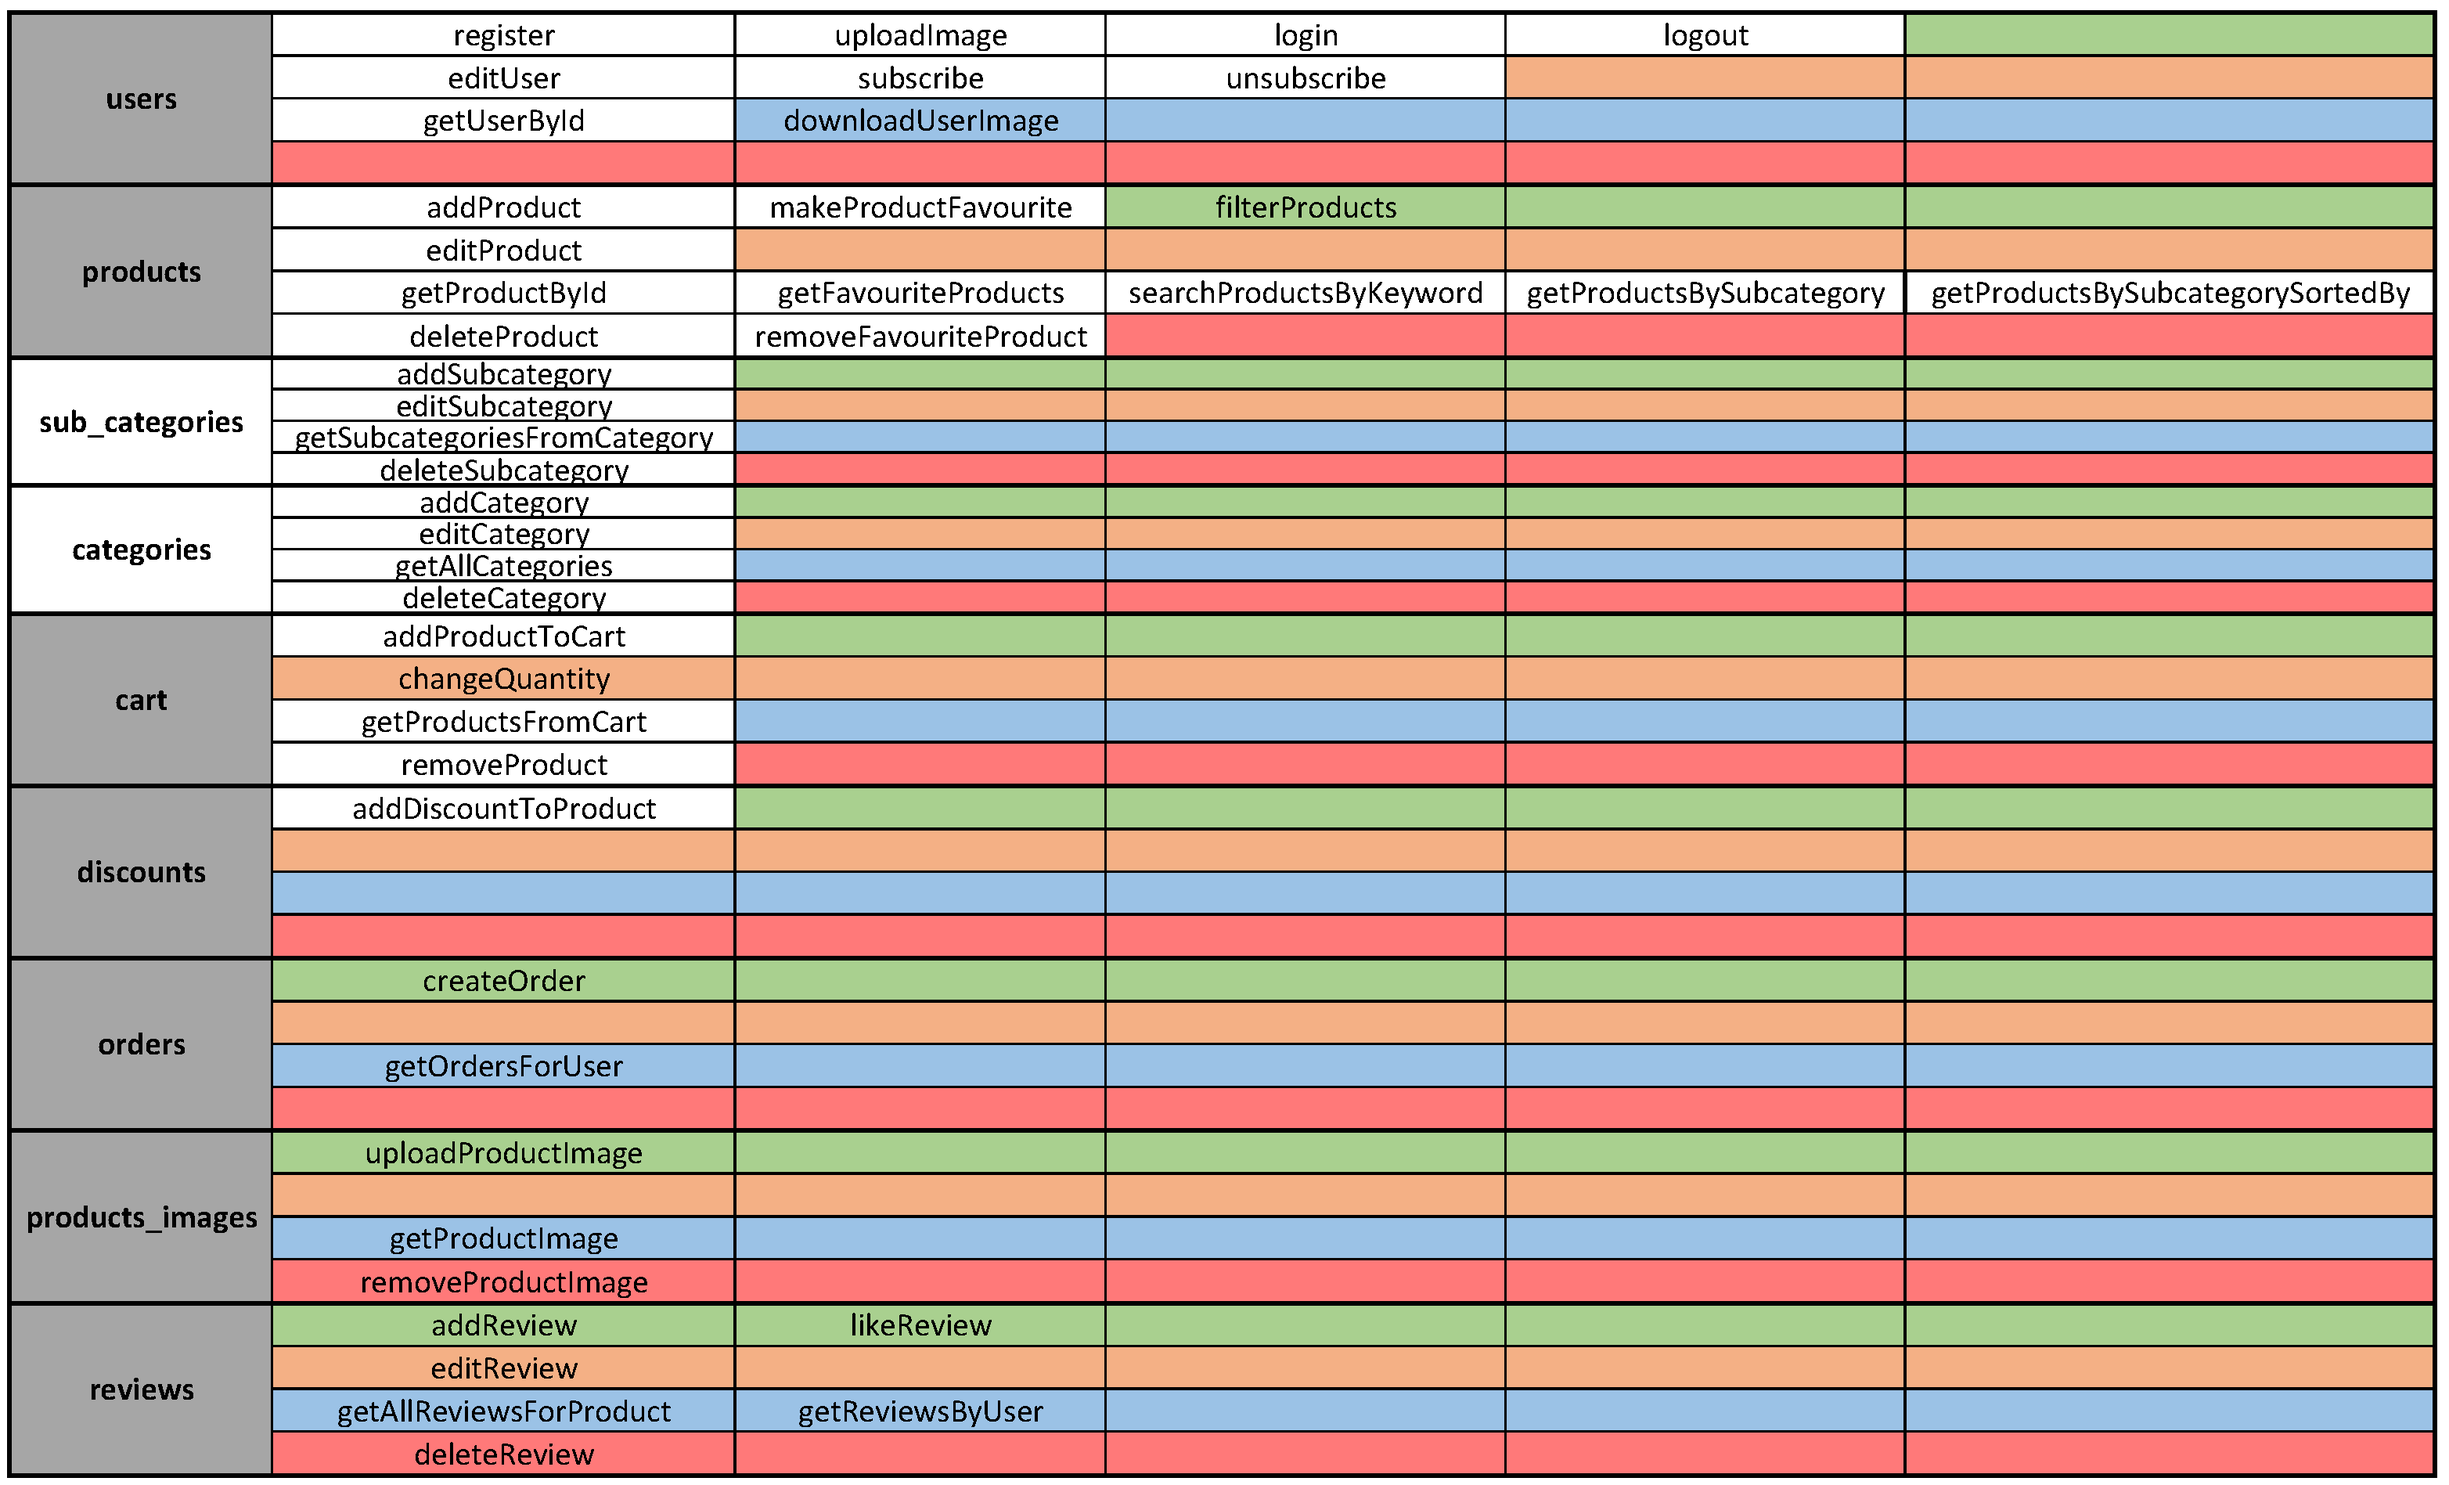
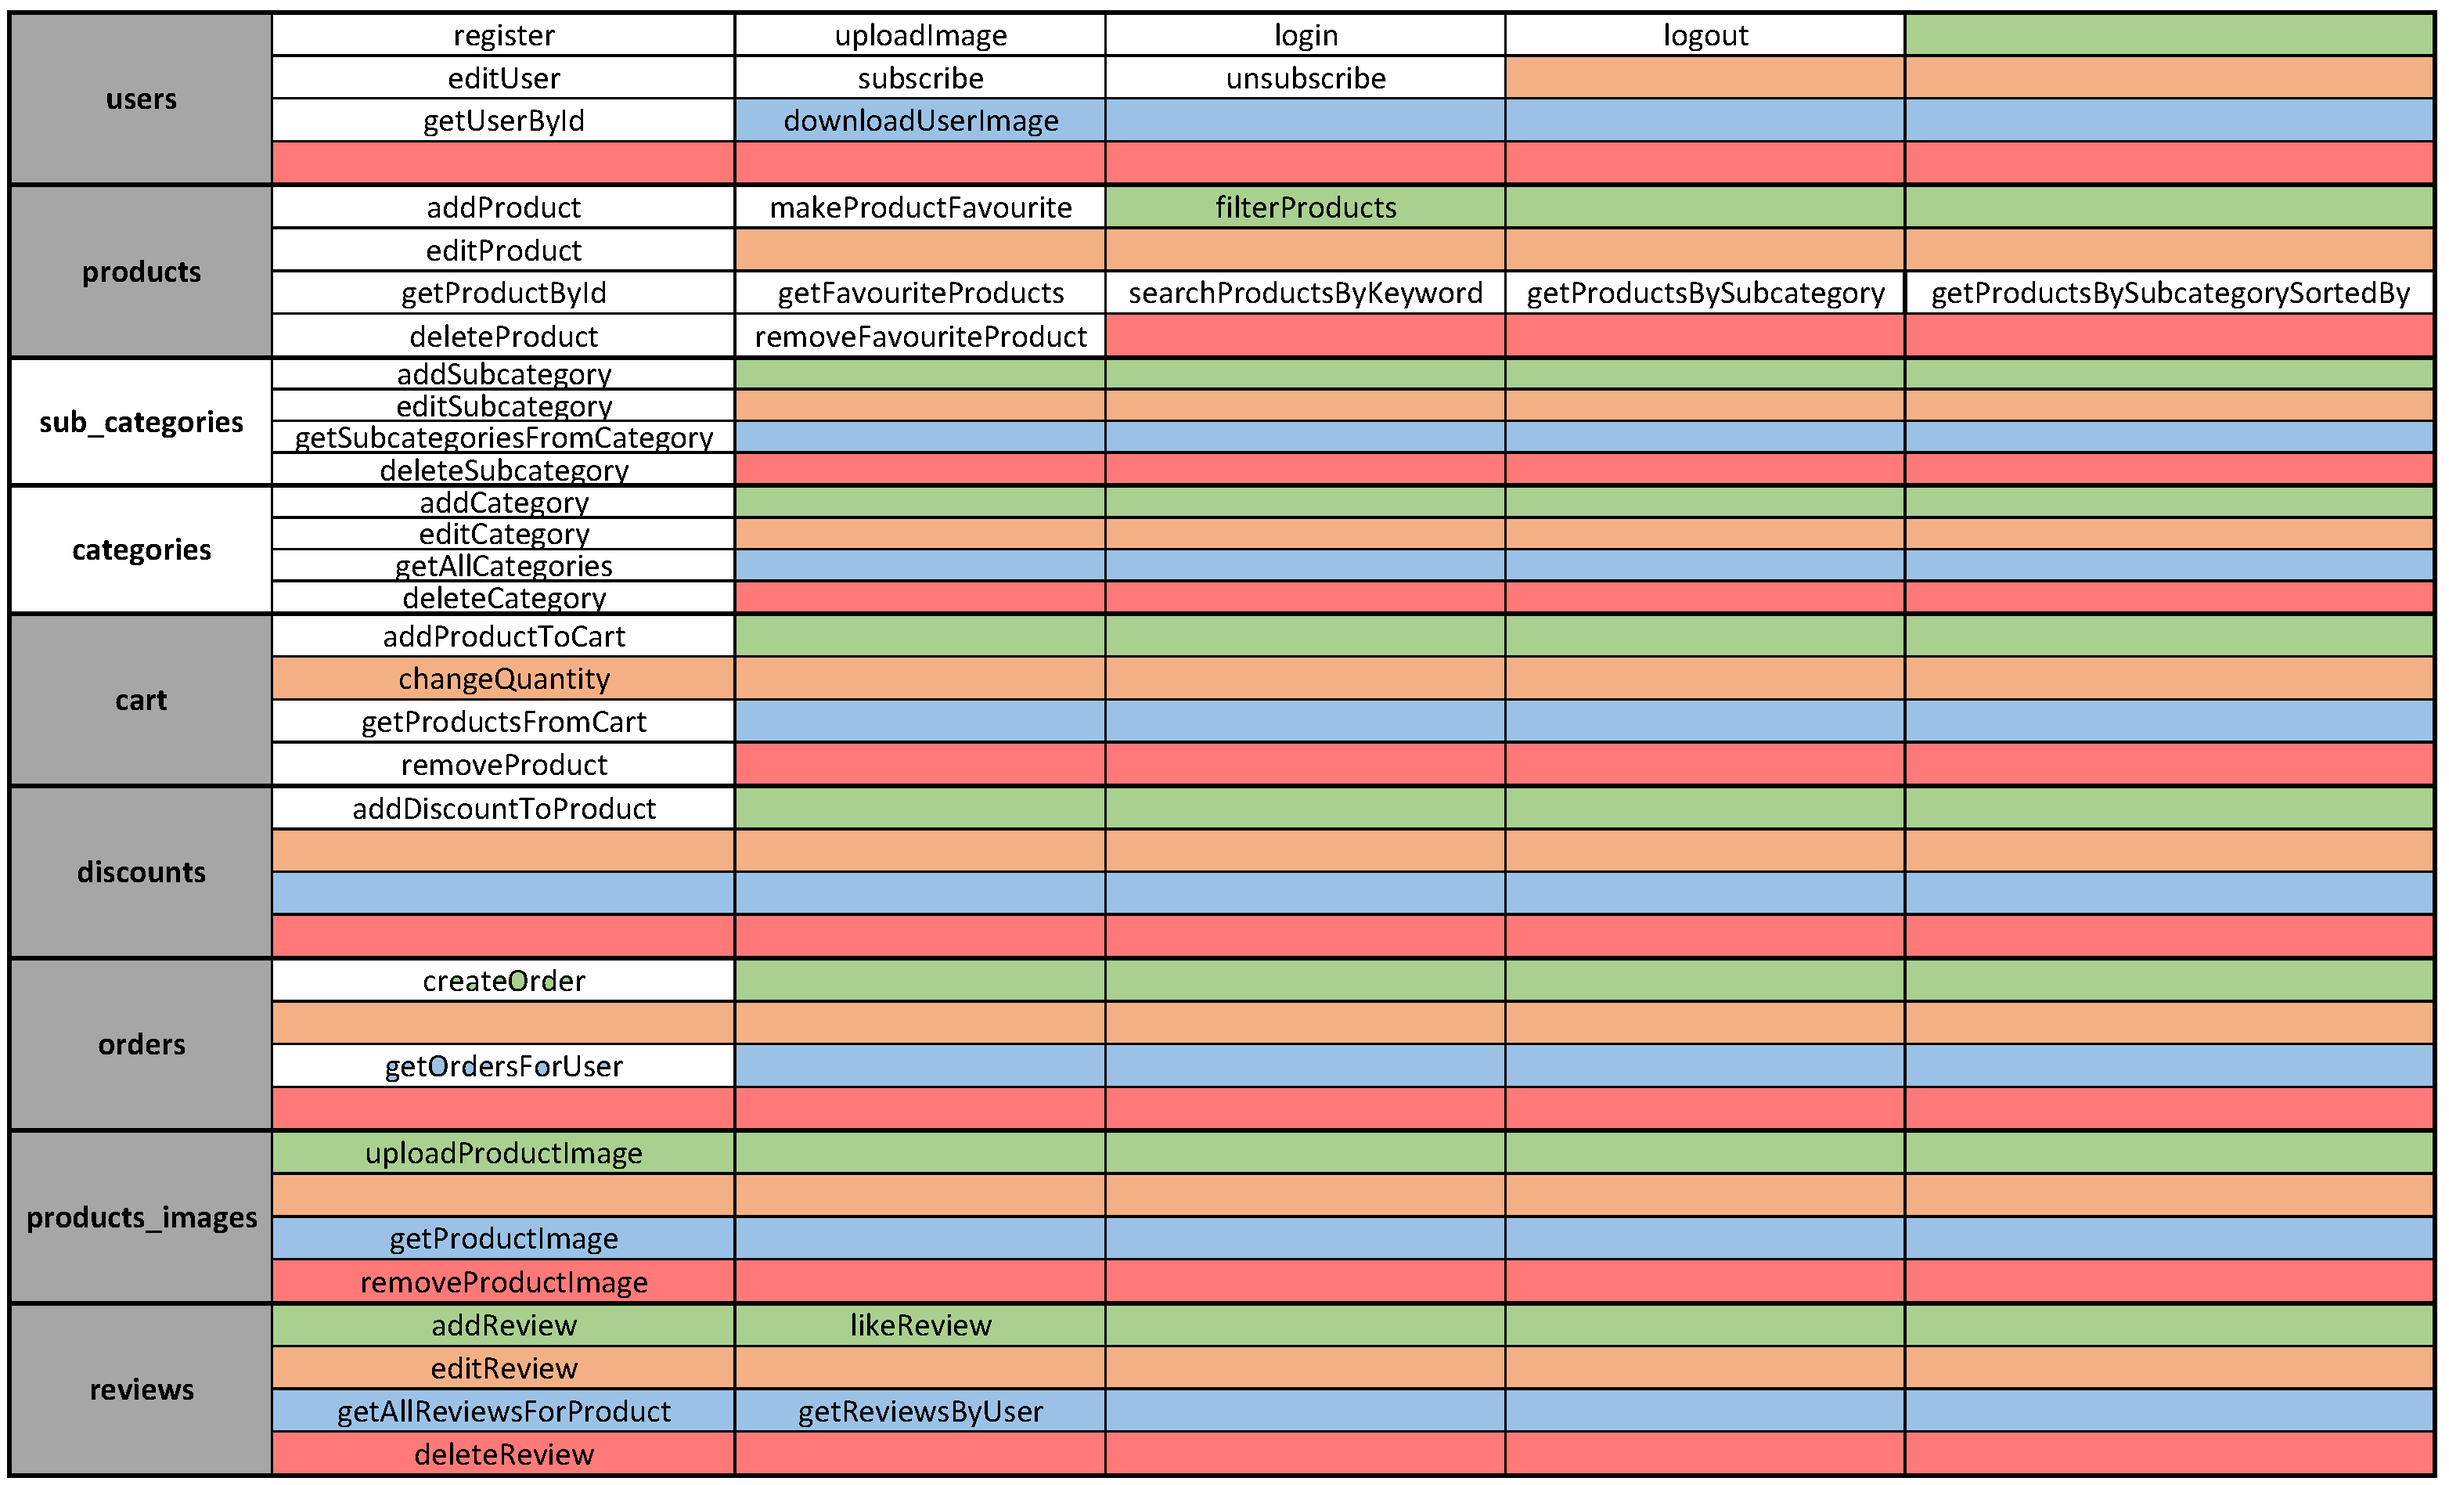
Orders

Changed region(s): [[0.093, 0.622, 0.31, 0.7464]]

diff --git a/src/main/java/com/emag/service/OrderService.java b/src/main/java/com/emag/service/OrderService.java
@@ -1,22 +1,64 @@
 package com.emag.service;
 
+import com.emag.exception.BadRequestException;
 import com.emag.exception.NotFoundException;
-import com.emag.model.pojo.Order;
-import com.emag.model.pojo.User;
-import com.emag.model.pojo.UserCart;
+import com.emag.model.dto.OrderDTO;
+import com.emag.model.pojo.*;
+import org.aspectj.weaver.ast.Or;
 import org.springframework.stereotype.Service;
 
-import java.util.List;
+import java.sql.Time;
+import java.sql.Timestamp;
+import java.time.LocalDateTime;
+import java.util.*;
 
 @Service
 public class OrderService extends AbstractService{
 
-    public Order createOrder(User user) {
-        List<UserCart> cart = cartRepository.findAllByUser(user)
-                .orElseThrow(() -> new NotFoundException("Carts empty!"));
+    public OrderDTO createOrder(User user) {
+        List<UserCart> cart = cartRepository.findAllByUser(user).orElse(null);
+        if (cart.isEmpty() || cart == null){
+            throw new BadRequestException("Carts empty!");
+        }
 
-// TODO finish method
-        return null;
+        Order order = new Order();
+        order.setBuyer(user);
+        order.setCreatedAt(Timestamp.valueOf(LocalDateTime.now()));
+        orderRepository.save(order);
 
+        OrderedProduct.OrderedProductsKey primaryKey = new OrderedProduct.OrderedProductsKey();
+        primaryKey.setOrderId(order.getId());
+
+
+        HashMap<Product , Integer> productsQuantities = new HashMap<>();
+        cart.forEach(userCart -> {
+            Product product = userCart.getProduct();
+            if (product.getDeletedAt() != null){
+                throw new BadRequestException("Product deleted !");
+            }
+            primaryKey.setProductId(product.getId());
+            int availableProductQuantity = product.getQuantity();
+            int orderedQuantity = userCart.getQuantity();
+            if (availableProductQuantity < orderedQuantity){
+                orderRepository.deleteById(order.getId());
+                throw new BadRequestException("Limited product quantity!");
+            }
+            productsQuantities.put(product , orderedQuantity );
+            product.setQuantity(product.getQuantity() - orderedQuantity);
+
+
+            orderedProductRepository.save(new OrderedProduct(primaryKey , order , product , orderedQuantity));
+            if (product.getQuantity() <= 0){
+                product.setDeletedAt(Timestamp.valueOf(LocalDateTime.now()));
+                productRepository.deleteById(product.getId());
+            }
+            cartRepository.delete(userCart);
+        });
+        double totalSum = productsQuantities.keySet().stream().map(Product::getPrice).reduce(Double::sum).orElse(0.0);
+        return new OrderDTO(new ArrayList<>(productsQuantities.entrySet()) , totalSum);
+    }
+
+    public List<Order> getAllOrders(User user) {
+        return orderRepository.findAllByBuyer(user).orElseThrow(() -> new BadRequestException("User has no orders!"));
     }
 }

diff --git a/src/main/java/com/emag/service/CartService.java b/src/main/java/com/emag/service/CartService.java
@@ -1,5 +1,6 @@
 package com.emag.service;
 
+import com.emag.exception.BadRequestException;
 import com.emag.exception.NotFoundException;
 import com.emag.model.dto.product.ResponseProductDTO;
 import com.emag.model.pojo.Product;
@@ -17,13 +18,23 @@ public class CartService extends AbstractService{
     public UserCart addProductToCart(long id, User user) {
         Product product = productRepository.findById(id)
                 .orElseThrow(() -> new NotFoundException("Product not found !"));
+        if (product.getDeletedAt() != null){
+            throw new BadRequestException("Product deleted");
+        }
+        int productAvailableQuantity = product.getQuantity();
         UserCart.UserCartKey primaryKey = new UserCart.UserCartKey();
         primaryKey.setProductId(id);
         primaryKey.setUserId(user.getId());
         UserCart userCart = cartRepository.findByPrimaryKey(primaryKey).orElse(null);
         if (userCart != null){
-            userCart.setQuantity(userCart.getQuantity() + 1);
-            return cartRepository.save(userCart);
+            int orderedQuantity = userCart.getQuantity();
+            if (productAvailableQuantity <= orderedQuantity){
+                throw new BadRequestException("Product not available!");
+            }
+            else {
+                userCart.setQuantity(userCart.getQuantity() + 1);
+                return cartRepository.save(userCart);
+            }
         }
         return cartRepository.save(new UserCart(primaryKey , user , product , 1));
 

diff --git a/src/main/java/com/emag/controller/OrderController.java b/src/main/java/com/emag/controller/OrderController.java
@@ -1,13 +1,18 @@
 package com.emag.controller;
 
+import com.emag.model.dto.OrderDTO;
 import com.emag.model.pojo.Order;
+import com.emag.model.pojo.Product;
 import com.emag.service.OrderService;
 import org.springframework.beans.factory.annotation.Autowired;
+import org.springframework.web.bind.annotation.GetMapping;
 import org.springframework.web.bind.annotation.PostMapping;
 import org.springframework.web.bind.annotation.RestController;
 
 import javax.persistence.Access;
 import javax.servlet.http.HttpServletRequest;
+import java.util.List;
+import java.util.Map;
 
 @RestController
 public class OrderController {
@@ -19,7 +24,13 @@ public class OrderController {
     OrderService orderService;
 
     @PostMapping("/orders")
-    Order createOrder (HttpServletRequest request) {
+    OrderDTO createOrder (HttpServletRequest request) {
         return orderService.createOrder(sessionManager.getLoggedUser(request));
     }
+
+    @GetMapping("/orders")
+    List<Order> getAllOrders (HttpServletRequest request){
+        return orderService.getAllOrders(sessionManager.getLoggedUser(request));
+    }
+
 }

diff --git a/src/main/java/com/emag/model/pojo/OrderedProduct.java b/src/main/java/com/emag/model/pojo/OrderedProduct.java
@@ -1,10 +1,7 @@
 package com.emag.model.pojo;
 
 import com.fasterxml.jackson.annotation.JsonManagedReference;
-import lombok.Data;
-import lombok.Getter;
-import lombok.NoArgsConstructor;
-import lombok.Setter;
+import lombok.*;
 
 import javax.persistence.*;
 import java.io.Serializable;
@@ -13,6 +10,7 @@ import java.io.Serializable;
 @Getter
 @Setter
 @NoArgsConstructor
+@AllArgsConstructor
 @Table(name = "orders_have_products")
 public class OrderedProduct {
 

diff --git a/src/main/java/com/emag/model/repository/OrderedProductRepository.java b/src/main/java/com/emag/model/repository/OrderedProductRepository.java
@@ -1,0 +1,12 @@
+package com.emag.model.repository;
+
+import com.emag.model.pojo.Order;
+import com.emag.model.pojo.OrderedProduct;
+import org.springframework.data.jpa.repository.JpaRepository;
+
+import java.util.List;
+import java.util.Optional;
+
+public interface OrderedProductRepository extends JpaRepository<OrderedProduct , OrderedProduct.OrderedProductsKey> {
+    Optional<List<OrderedProduct>> findAllByOrder (Order order);
+}

diff --git a/src/main/java/com/emag/model/repository/OrderRepository.java b/src/main/java/com/emag/model/repository/OrderRepository.java
@@ -1,9 +1,14 @@
 package com.emag.model.repository;
 
 import com.emag.model.pojo.Order;
+import com.emag.model.pojo.User;
 import org.springframework.data.jpa.repository.JpaRepository;
 import org.springframework.stereotype.Repository;
 
+import java.util.List;
+import java.util.Optional;
+
 @Repository
 public interface OrderRepository extends JpaRepository<Order, Long> {
+    Optional<List<Order>> findAllByBuyer (User user);
 }

diff --git a/src/main/java/com/emag/model/pojo/Order.java b/src/main/java/com/emag/model/pojo/Order.java
@@ -7,6 +7,7 @@ import lombok.*;
 import org.springframework.stereotype.Component;
 
 import javax.persistence.*;
+import java.sql.Timestamp;
 import java.time.LocalDateTime;
 import java.util.List;
 
@@ -33,5 +34,5 @@ public class Order {
     List<OrderedProduct> orderedProducts;
 
 
-    private LocalDateTime createdAt;
+    private Timestamp createdAt;
 }

diff --git a/src/main/java/com/emag/controller/ExceptionController.java b/src/main/java/com/emag/controller/ExceptionController.java
@@ -34,6 +34,7 @@ public class ExceptionController extends ResponseEntityExceptionHandler {
         dto.setMessage(e.getMessage());
         dto.setStatus(HttpStatus.BAD_REQUEST.value());
         dto.setTime(LocalDateTime.now());
+        e.printStackTrace();
         return dto;
     }
     @ExceptionHandler(value = {NotFoundException.class})

diff --git a/src/main/java/com/emag/model/dto/OrderDTO.java b/src/main/java/com/emag/model/dto/OrderDTO.java
@@ -1,0 +1,15 @@
+package com.emag.model.dto;
+
+import com.emag.model.pojo.Product;
+import lombok.AllArgsConstructor;
+import lombok.Data;
+
+import java.util.List;
+import java.util.Map;
+
+@Data
+@AllArgsConstructor
+public class OrderDTO {
+    private List<Map.Entry<Product , Integer>> order;
+    private double totalSum;
+}

diff --git a/src/main/java/com/emag/service/AbstractService.java b/src/main/java/com/emag/service/AbstractService.java
@@ -26,6 +26,9 @@ public abstract class AbstractService {
     @Autowired
     protected OrderRepository orderRepository;
 
+    @Autowired
+    protected OrderedProductRepository orderedProductRepository;
+
 //    @Autowired
 //    protected ProductImageRepository productImageRepository;
 //

diff --git a/src/main/java/com/emag/model/pojo/Product.java b/src/main/java/com/emag/model/pojo/Product.java
@@ -16,6 +16,8 @@ import java.util.List;
 @Getter
 @NoArgsConstructor
 @AllArgsConstructor
+@EqualsAndHashCode
+@ToString
 public class Product {
     @Id
     @GeneratedValue(strategy = GenerationType.IDENTITY)

diff --git a/src/main/java/com/emag/model/dto/OrderResponseDTO.java b/src/main/java/com/emag/model/dto/OrderResponseDTO.java
@@ -1,0 +1,10 @@
+package com.emag.model.dto;
+
+import lombok.Data;
+import org.springframework.stereotype.Component;
+
+@Component
+@Data
+public class OrderResponseDTO {
+
+}
